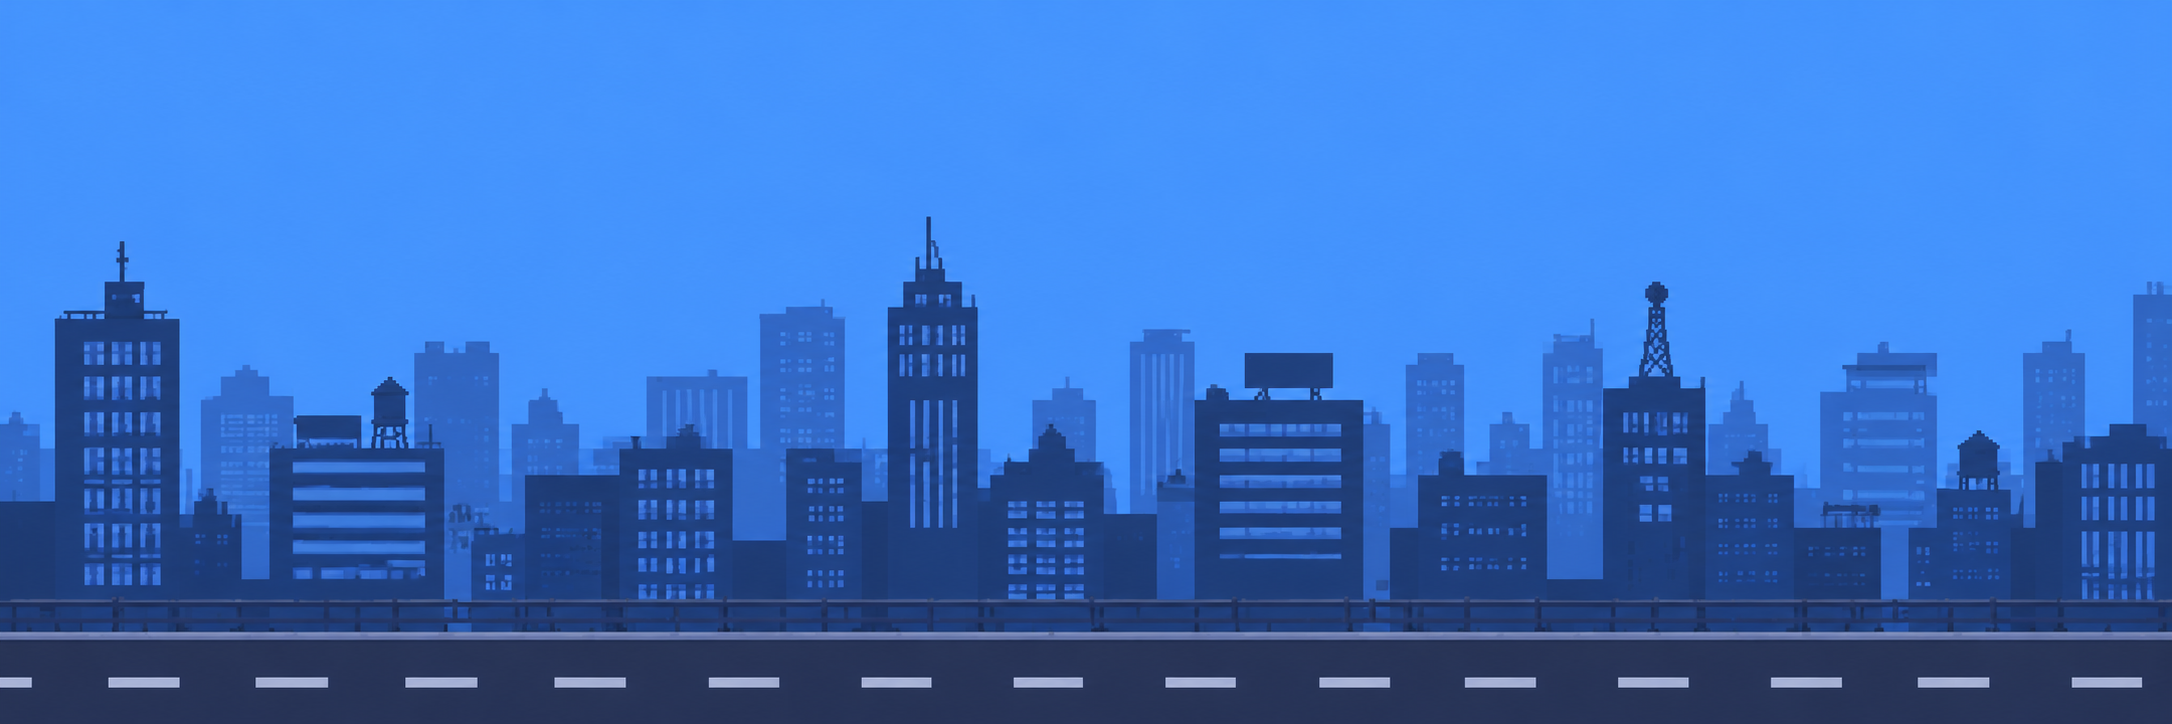
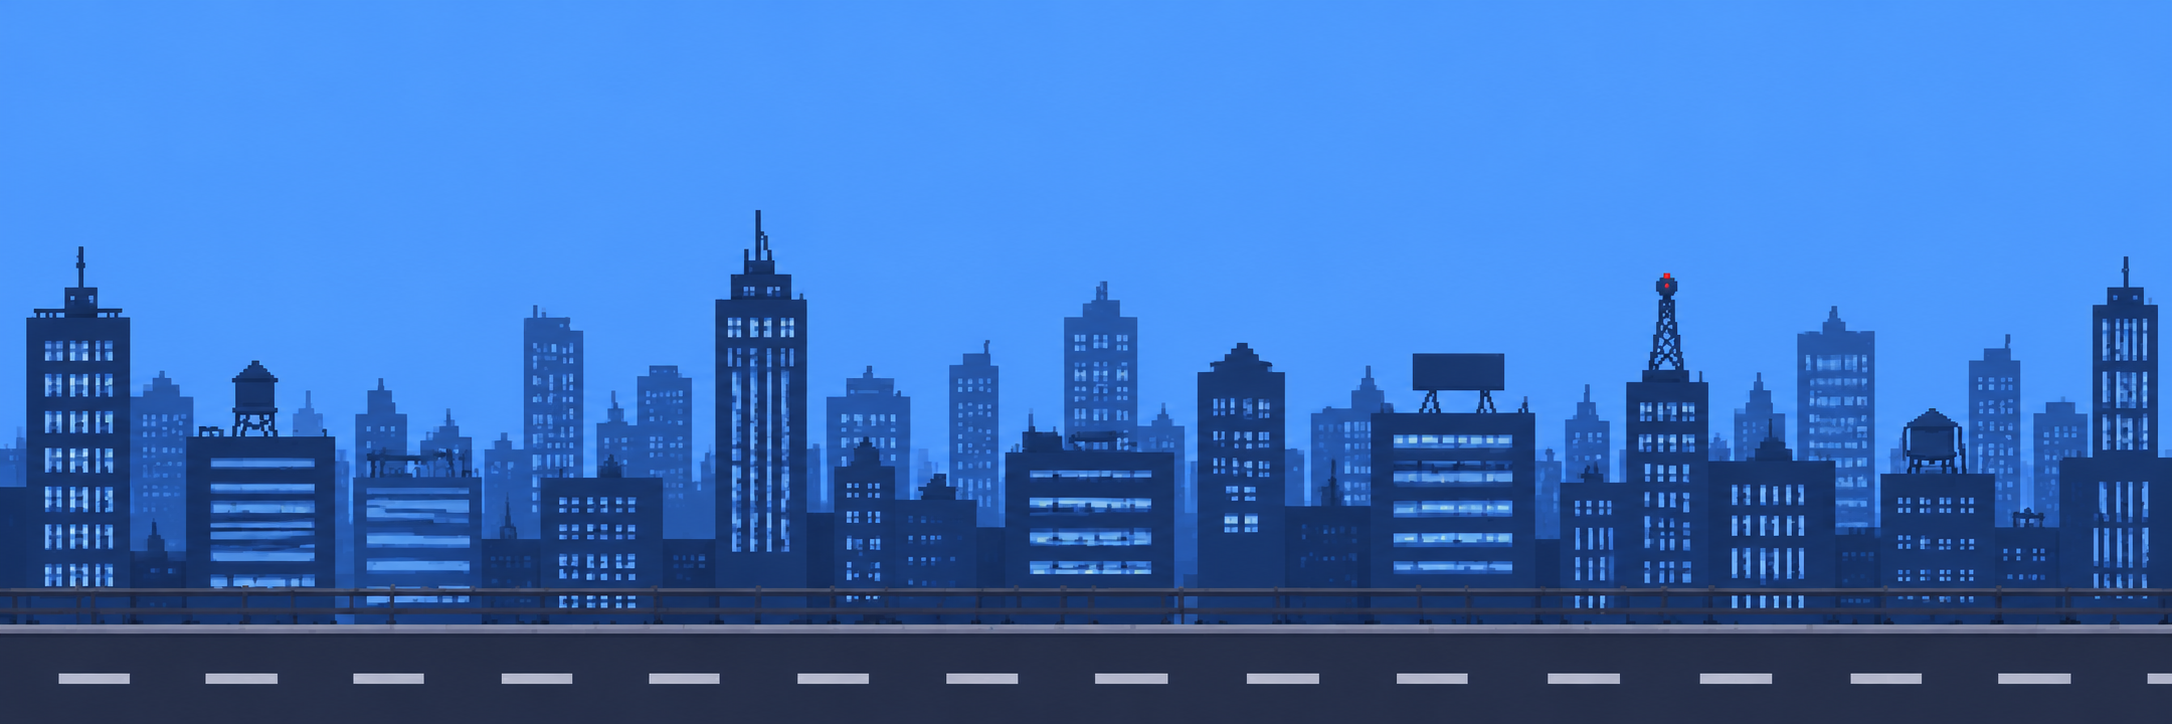
Toast QoL + Sound alignment

Changed region(s): [[0.0, 0.3039, 1.0, 0.8812], [0.0, 0.9116, 1.0, 0.9724]]

diff --git a/game.js b/game.js
@@ -6,6 +6,7 @@
   const imageAt=(item,now)=>{if(!item.frames)return item.img;const cycle=item.durations.reduce((a,b)=>a+b,0);let t=now%cycle;for(let i=0;i<item.frames.length;i++){if(t<item.durations[i])return item.frames[i];t-=item.durations[i]}return item.frames[0]};
   const coinData=window.GIF_FRAMES?.coin,coinAnimation=coinData?{frames:coinData.frames.map(src=>Object.assign(new Image(),{src})),durations:coinData.durations}:null;
   const presentImage=Object.assign(new Image(),{src:'assets/ui/present.png'});
+  const eyesImage=Object.assign(new Image(),{src:'assets/ui/eyes.png'});
   const runners=loadPool(roster.runners,'runners'),cars=loadPool(roster.cars,'cars');
   const coinsEl=document.querySelector('#coins'),toast=document.querySelector('#toast'),soundButton=document.querySelector('#sound'),currencyElement=document.querySelector('.currency');
   const indexOverlay=document.querySelector('#indexOverlay'),indexContent=document.querySelector('#indexContent'),indexButton=document.querySelector('#openIndex');
@@ -79,8 +80,9 @@
     const needs={engine:carsOnRoad.length>0,running:runnersOnRoad.some(r=>!r.hit),music:true};
     for(const key of Object.keys(sounds))fadeLoop(key,soundOn&&audioReady&&needs[key]);
   }
-  function effect(file,volume){if(!soundOn||!audioReady)return;const audio=new Audio(`assets/audio/${file}`);audio.volume=volume;audio.playbackRate=pitch();audio.play().catch(()=>{});audio.addEventListener('ended',()=>audio.remove(),{once:true})}
+  function effect(file,volume,force=false){if((!soundOn&&!force)||!audioReady)return;const audio=new Audio(`assets/audio/${file}`);audio.volume=volume;audio.playbackRate=pitch();audio.play().catch(()=>{});audio.addEventListener('ended',()=>audio.remove(),{once:true})}
   function playRaritySound(item){effect(item.rarity==='Common'||item.rarity==='Uncommon'?'commonItem.mp3':'goodItem.mp3',.42)}
+  document.addEventListener('click',event=>{const button=event.target.closest('.game button');if(!button)return;audioReady=true;const turningSoundOn=button===soundButton&&!soundOn;if(soundOn||turningSoundOn)effect('commonItem.mp3',.22,true)},true);
   function queueToastCoins(amount){
     const toastBounds=toast.getBoundingClientRect(),canvasBounds=canvas.getBoundingClientRect(),startX=(toastBounds.left+toastBounds.width/2-canvasBounds.left)*W/canvasBounds.width,startY=(toastBounds.bottom-canvasBounds.top)*H/canvasBounds.height;
     const count=Math.min(3,Math.max(1,Math.ceil(amount/25))),base=Math.floor(amount/count),remainder=amount%count,now=performance.now();
@@ -95,12 +97,13 @@
     const height=116*type.scale,width=height*(type.aspect||1);
     const startX=dir>0?-width-24:W+24,endX=dir>0?W+24:-width-24,dropCount=type.id==='santa'?1+Math.floor(Math.random()*5):0;
     const dropMarks=Array.from({length:dropCount},()=>.12+Math.random()*.76).sort((a,b)=>a-b);
-    runnersOnRoad.push({type,dir,lane,x:startX,startX,endX,dropMarks,dropIndex:0,y:lane===0?745:810,vy:0,vx:dir*variation.speed,width,height,fastStart:variation.fast?now:0,fastUntil:variation.fast?now+4500:0,kmh:Math.round(variation.speed*.12),angle:0,spinning:0,passed:false,hit:false,scale:type.scale});
+    runnersOnRoad.push({type,dir,lane,x:startX,prevX:startX,startX,endX,dropMarks,dropIndex:0,y:lane===0?745:810,vy:0,vx:dir*variation.speed,width,height,fastStart:variation.fast?now:0,fastUntil:variation.fast?now+4500:0,kmh:Math.round(variation.speed*.12),angle:0,spinning:0,passed:false,hit:false,scale:type.scale});
   }
   function addCar(now){
     const type=weighted(cars),dir=Math.random()<.5?-1:1,lane=Math.random()<.5?0:1;
     const height=92*type.scale,width=height*(type.aspect||1),laneCenter=lane===0?811:876,roadY=laneCenter-height/2,variation=variedSpeed(285+Math.random()*85);
-    carsOnRoad.push({type,dir,lane,x:dir>0?-width-20:W+20,y:roadY,drawY:roadY,w:width,h:height,vx:dir*variation.speed,fastStart:variation.fast?now:0,fastUntil:variation.fast?now+4500:0,kmh:Math.round(variation.speed*.22),bob:Math.random()*Math.PI*2});
+    const startX=dir>0?-width-20:W+20;
+    carsOnRoad.push({type,dir,lane,x:startX,prevX:startX,y:roadY,drawY:roadY,w:width,h:height,vx:dir*variation.speed,fastStart:variation.fast?now:0,fastUntil:variation.fast?now+4500:0,kmh:Math.round(variation.speed*.22),bob:Math.random()*Math.PI*2});
     if(type.id==='catmobile')effect('meow.mp3',.4);
     carTimer=6.5+Math.random()*2.4;
   }
@@ -115,6 +118,24 @@
     ctx.strokeStyle='#ffe58b';ctx.lineWidth=1.7;ctx.beginPath();ctx.moveTo(lineX-cx,height/2);ctx.lineTo(x-cx,y-cy);ctx.stroke();
     ctx.fillStyle='#101a2de8';ctx.fillRect(-width/2,-height/2,width,height);ctx.strokeStyle='#ffe58b';ctx.lineWidth=1.2;ctx.strokeRect(-width/2,-height/2,width,height);
     ctx.fillStyle='#fff1b5';ctx.textBaseline='middle';ctx.fillText(text,-width/2+8,0);ctx.restore();
+  }
+  function markSkeletonPaces(now){
+    const skeletons=runnersOnRoad.filter(actor=>actor.type.id==='skeleton'&&!actor.hit);
+    for(const skeleton of skeletons){
+      const sx0=skeleton.prevX+skeleton.width/2,sx1=skeleton.x+skeleton.width/2;
+      for(const target of [...carsOnRoad,...runnersOnRoad]){
+        if(target===skeleton||target.type.id==='skeleton'||target.lane!==skeleton.lane)continue;
+        const width=target.width||target.w||116,x0=target.prevX+width/2,x1=target.x+width/2,before=sx0-x0,after=sx1-x1;
+        if(before===0||after===0||before*after<0){target.eyesStart=now;target.eyesUntil=now+2600}
+      }
+    }
+  }
+  function drawPacedEyes(actor,kind,now){
+    if(!actor.eyesUntil||now>actor.eyesUntil||!eyesImage.complete||!eyesImage.naturalWidth)return;
+    const clamp=value=>Math.max(0,Math.min(1,value)),fadeIn=1-Math.pow(1-clamp((now-actor.eyesStart)/150),3),fadeOut=1-Math.pow(1-clamp((actor.eyesUntil-now)/380),3),alpha=Math.min(fadeIn,fadeOut);
+    const targetWidth=kind==='car'?actor.w:actor.width,drawWidth=Math.min(72,Math.max(38,targetWidth*.42)),drawHeight=drawWidth*eyesImage.naturalHeight/eyesImage.naturalWidth;
+    const centerX=kind==='car'?actor.x+actor.w/2:actor.x+actor.width/2,centerY=kind==='car'?actor.drawY+actor.h*.32:actor.y+actor.height*.3;
+    ctx.save();ctx.globalAlpha=alpha;ctx.drawImage(eyesImage,centerX-drawWidth/2,centerY-drawHeight/2,drawWidth,drawHeight);ctx.restore();
   }
   function hit(r,c){return r.x+r.width*.68>c.x+26&&r.x+r.width*.22<c.x+c.w-20&&Math.abs((r.y+r.height*.65)-(c.drawY+c.h*.58))<60}
   function reward(item){return item.rarity==='Common'?5:item.rarity==='Uncommon'?9:item.rarity==='Rare'?16:item.rarity==='Epic'?28:item.rarity==='Legendary'?60:120}
@@ -160,29 +181,29 @@
     if(scene.complete&&scene.naturalWidth){ctx.drawImage(scene,-bgOffset,0,bgWidth,H);ctx.drawImage(scene,bgWidth-bgOffset,0,bgWidth,H)}
     else{ctx.fillStyle='#4f93dc';ctx.fillRect(0,0,W,H);ctx.fillStyle='#343c50';ctx.fillRect(0,760,W,181)}
     for(let i=carsOnRoad.length-1;i>=0;i--){
-      const c=carsOnRoad[i];c.x+=c.vx*dt;c.drawY=c.y+Math.sin(now*.004+c.bob)*3.2;
+      const c=carsOnRoad[i];c.prevX=c.x;c.x+=c.vx*dt;c.drawY=c.y+Math.sin(now*.004+c.bob)*3.2;
       if(c.dir>0&&c.x>W+20||c.dir<0&&c.x<-c.w-20){const isNew=!unlockedCars.has(c.type.id);unlockedCars.add(c.type.id);persist();if(isNew)popToast(c.type,'UNLOCKED',cars);if(indexOpen&&indexTab==='cars')renderIndex();carsOnRoad.splice(i,1)}
     }
     for(let i=runnersOnRoad.length-1;i>=0;i--){
       const r=runnersOnRoad[i],rw=r.width,rh=r.height;
       if(!r.hit){
-        r.x+=r.vx*dt;
+        r.prevX=r.x;r.x+=r.vx*dt;
         if(r.type.id==='santa'&&r.dropIndex<r.dropMarks.length){const progress=Math.max(0,Math.min(1,(r.x-r.startX)/(r.endX-r.startX)));while(r.dropIndex<r.dropMarks.length&&progress>=r.dropMarks[r.dropIndex]){dropPresent(r);r.dropIndex++}}
         if((r.dir<0&&r.x<-rw)||(r.dir>0&&r.x>W)){
           r.passed=true;unlocked.add(r.type.id);const prize=reward(r.type);if(r.type.id==='santa')releasePresents(r,now);persist();if(indexOpen&&indexTab==='runners')renderIndex();popToast(r.type,`UNLOCKED +${prize}¢`,runners,prize);runnerTimer=Math.max(runnerTimer,4.3);
         }else for(const c of carsOnRoad){if(hit(r,c)){r.hit=true;removePresents(r);r.fastUntil=0;r.spinning=(Math.random()<.5?-1:1)*(18+Math.random()*22);r.vx=(Math.random()-.5)*1850;r.vy=-1150-Math.random()*650;effect('crash.mp3',.46);popToast(c.type,'TRAFFIC',cars);break}}
-      }else{r.x+=r.vx*dt;r.y+=r.vy*dt;r.vy+=1550*dt;r.angle+=r.spinning*dt;if(r.x<-350||r.x>W+350||r.y>H+250){runnersOnRoad.splice(i,1);continue}}
+      }else{r.prevX=r.x;r.x+=r.vx*dt;r.y+=r.vy*dt;r.vy+=1550*dt;r.angle+=r.spinning*dt;if(r.x<-350||r.x>W+350||r.y>H+250){runnersOnRoad.splice(i,1);continue}}
       if(r.passed){runnersOnRoad.splice(i,1);continue}
     }
-    updateLoot(now,dt);
+    markSkeletonPaces(now);updateLoot(now,dt);
     const drawables=[...carsOnRoad.map(actor=>({actor,kind:'car',layer:0})),...runnersOnRoad.map(actor=>({actor,kind:'runner',layer:1})),...presents.map(actor=>({actor,kind:'present',layer:2})),...worldCoins.map(actor=>({actor,kind:'coin',layer:3}))].sort((a,b)=>a.actor.lane-b.actor.lane||a.layer-b.layer);
     for(const {actor,kind} of drawables){
       if(kind==='car'){
         const im=imageAt(actor.type,now);if(im?.complete&&im.naturalWidth){const flip=Boolean(actor.type.flip)!==(actor.dir<0);if(flip){ctx.save();ctx.translate(actor.x+actor.w,actor.drawY);ctx.scale(-1,1);ctx.drawImage(im,0,0,actor.w,actor.h);ctx.restore()}else ctx.drawImage(im,actor.x,actor.drawY,actor.w,actor.h)}
-        drawSpeedLabel(actor,actor.x+actor.w/2,actor.drawY+12,now);
+        drawPacedEyes(actor,'car',now);drawSpeedLabel(actor,actor.x+actor.w/2,actor.drawY+12,now);
       }else if(kind==='runner'){
         const rw=actor.width,rh=actor.height;ctx.save();ctx.translate(actor.x+rw/2,actor.y+rh/2);ctx.rotate(actor.angle);if(Boolean(actor.type.flip)!==(actor.dir<0))ctx.scale(-1,1);const im=imageAt(actor.type,now);if(im?.complete&&im.naturalWidth)ctx.drawImage(im,-rw/2,-rh/2,rw,rh);ctx.restore();
-        drawSpeedLabel(actor,actor.x+rw/2,actor.y+24,now);
+        drawPacedEyes(actor,'runner',now);drawSpeedLabel(actor,actor.x+rw/2,actor.y+24,now);
       }else if(kind==='present'){
         let scale=1;if(actor.state==='opening'){const t=Math.min(1,(now-actor.openStart)/(actor.openAt-actor.openStart));scale=1+.35*Math.sin(t*Math.PI)}
         if(presentImage.complete&&presentImage.naturalWidth){ctx.save();ctx.translate(actor.x,actor.y);ctx.rotate(actor.angle);ctx.drawImage(presentImage,-actor.size*scale/2,-actor.size*scale/2,actor.size*scale,actor.size*scale);ctx.restore()}

diff --git a/README.md b/README.md
@@ -23,7 +23,7 @@ Then enable GitHub Pages for the `main` branch and repository root. The game ent
 
 For animated GIFs, install the helper dependency with `python3 -m pip install -r requirements.txt`, then run `python3 tools/extract-gifs.py` after adding the file. It exports transparent PNG frames and updates `assets/frames.js`; the game advances those frames itself for consistent animation in the canvas.
 
-Sounds and music live in `assets/audio/`. Engine and running loops play while their actors are on screen; the music loops quietly behind the game, cat meows play only for Cat, and crashes play on collisions. Rarity toasts play `commonItem.mp3` for Common and Uncommon items or `goodItem.mp3` for higher rarities; runner reward coins fly from the toast to the counter. A browser gesture is needed before the browser will allow audio playback.
+Sounds and music live in `assets/audio/`. Engine and running loops play while their actors are on screen; the music loops quietly behind the game, cat meows play only for Cat, and crashes play on collisions. UI button clicks and Common or Uncommon rarity toasts use `commonItem.mp3`; higher-rarity toasts use `goodItem.mp3`. Runner reward coins fly from the toast to the counter. A browser gesture is needed before the browser will allow audio playback.
 
 Runner and car speeds vary independently. Most use their usual speed; larger speed changes are progressively rarer. Faster variants sometimes display a short-lived speed label and connector line.
 
